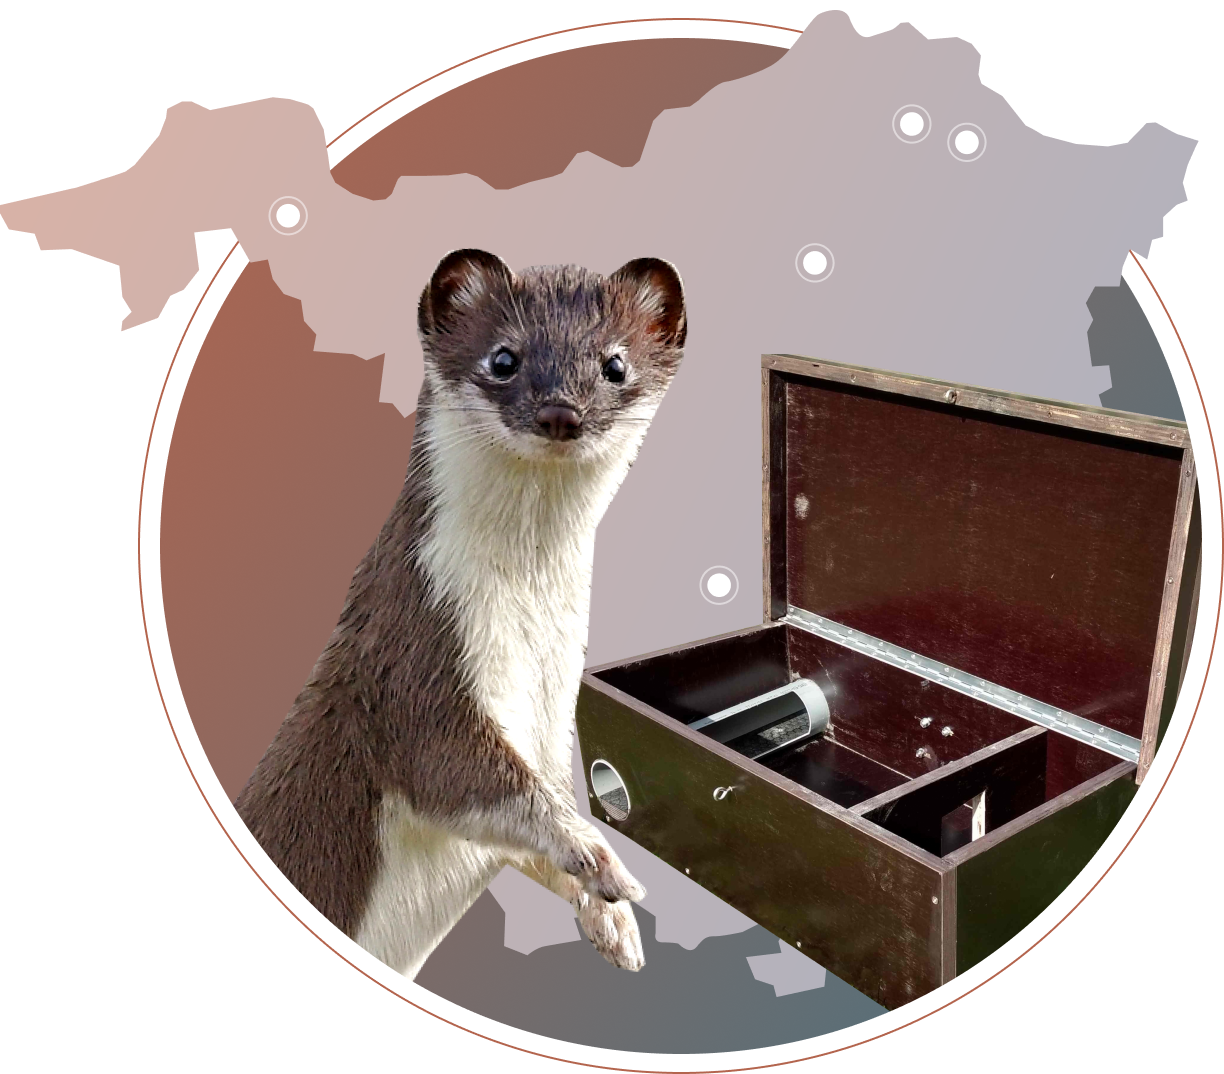
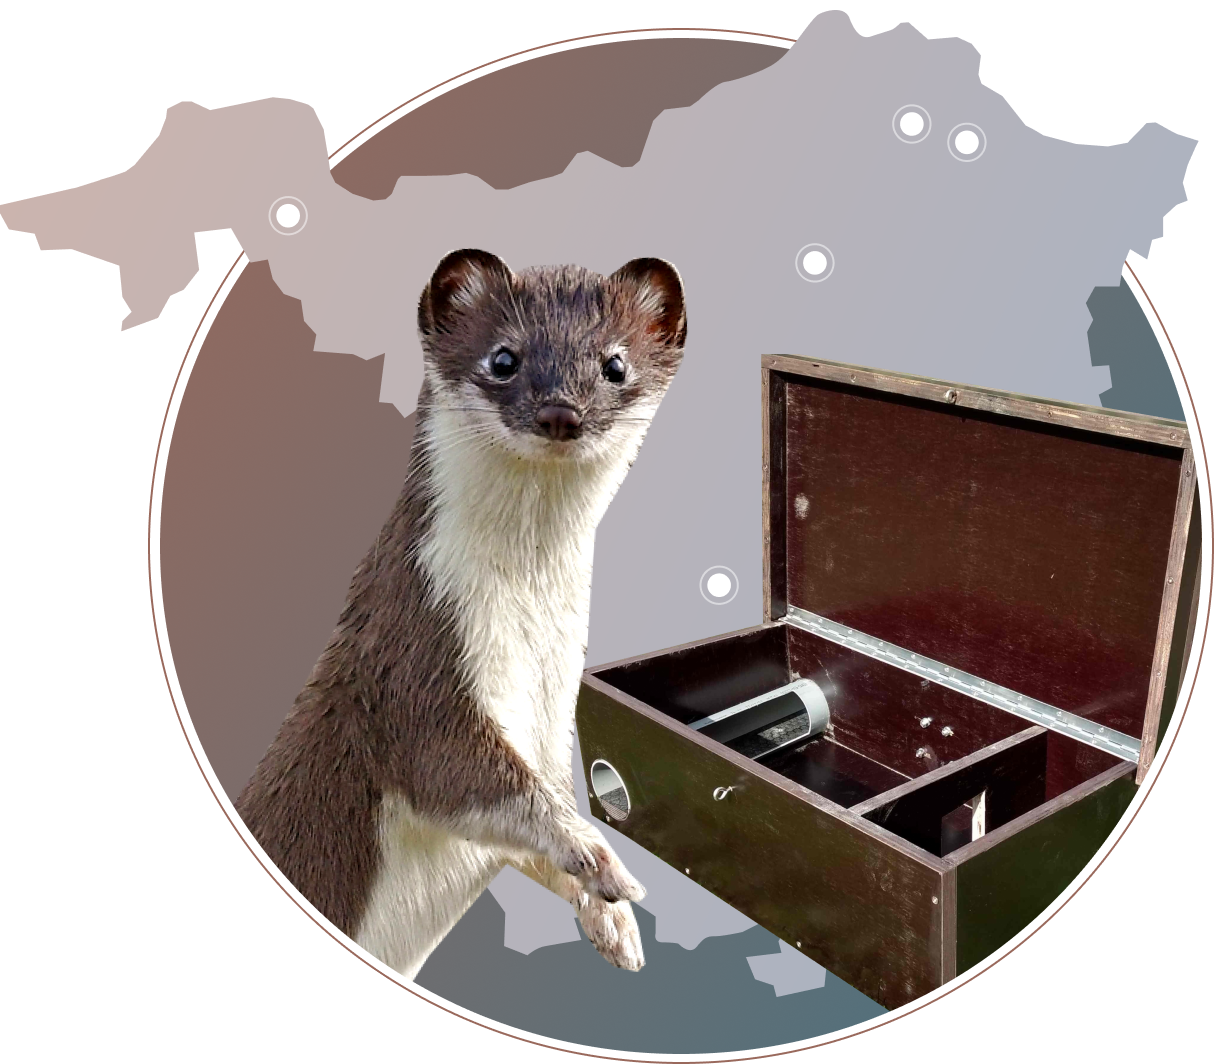
color change

diff --git a/src/styles/theme.scss b/src/styles/theme.scss
@@ -1,6 +1,6 @@
 
 $color-primary: #1D65A4;
-$color-secondary: #B3644D;
+$color-secondary: #99695C;
 $color-black: #231f20;
 
 $color-gradient-start: $color-secondary;
